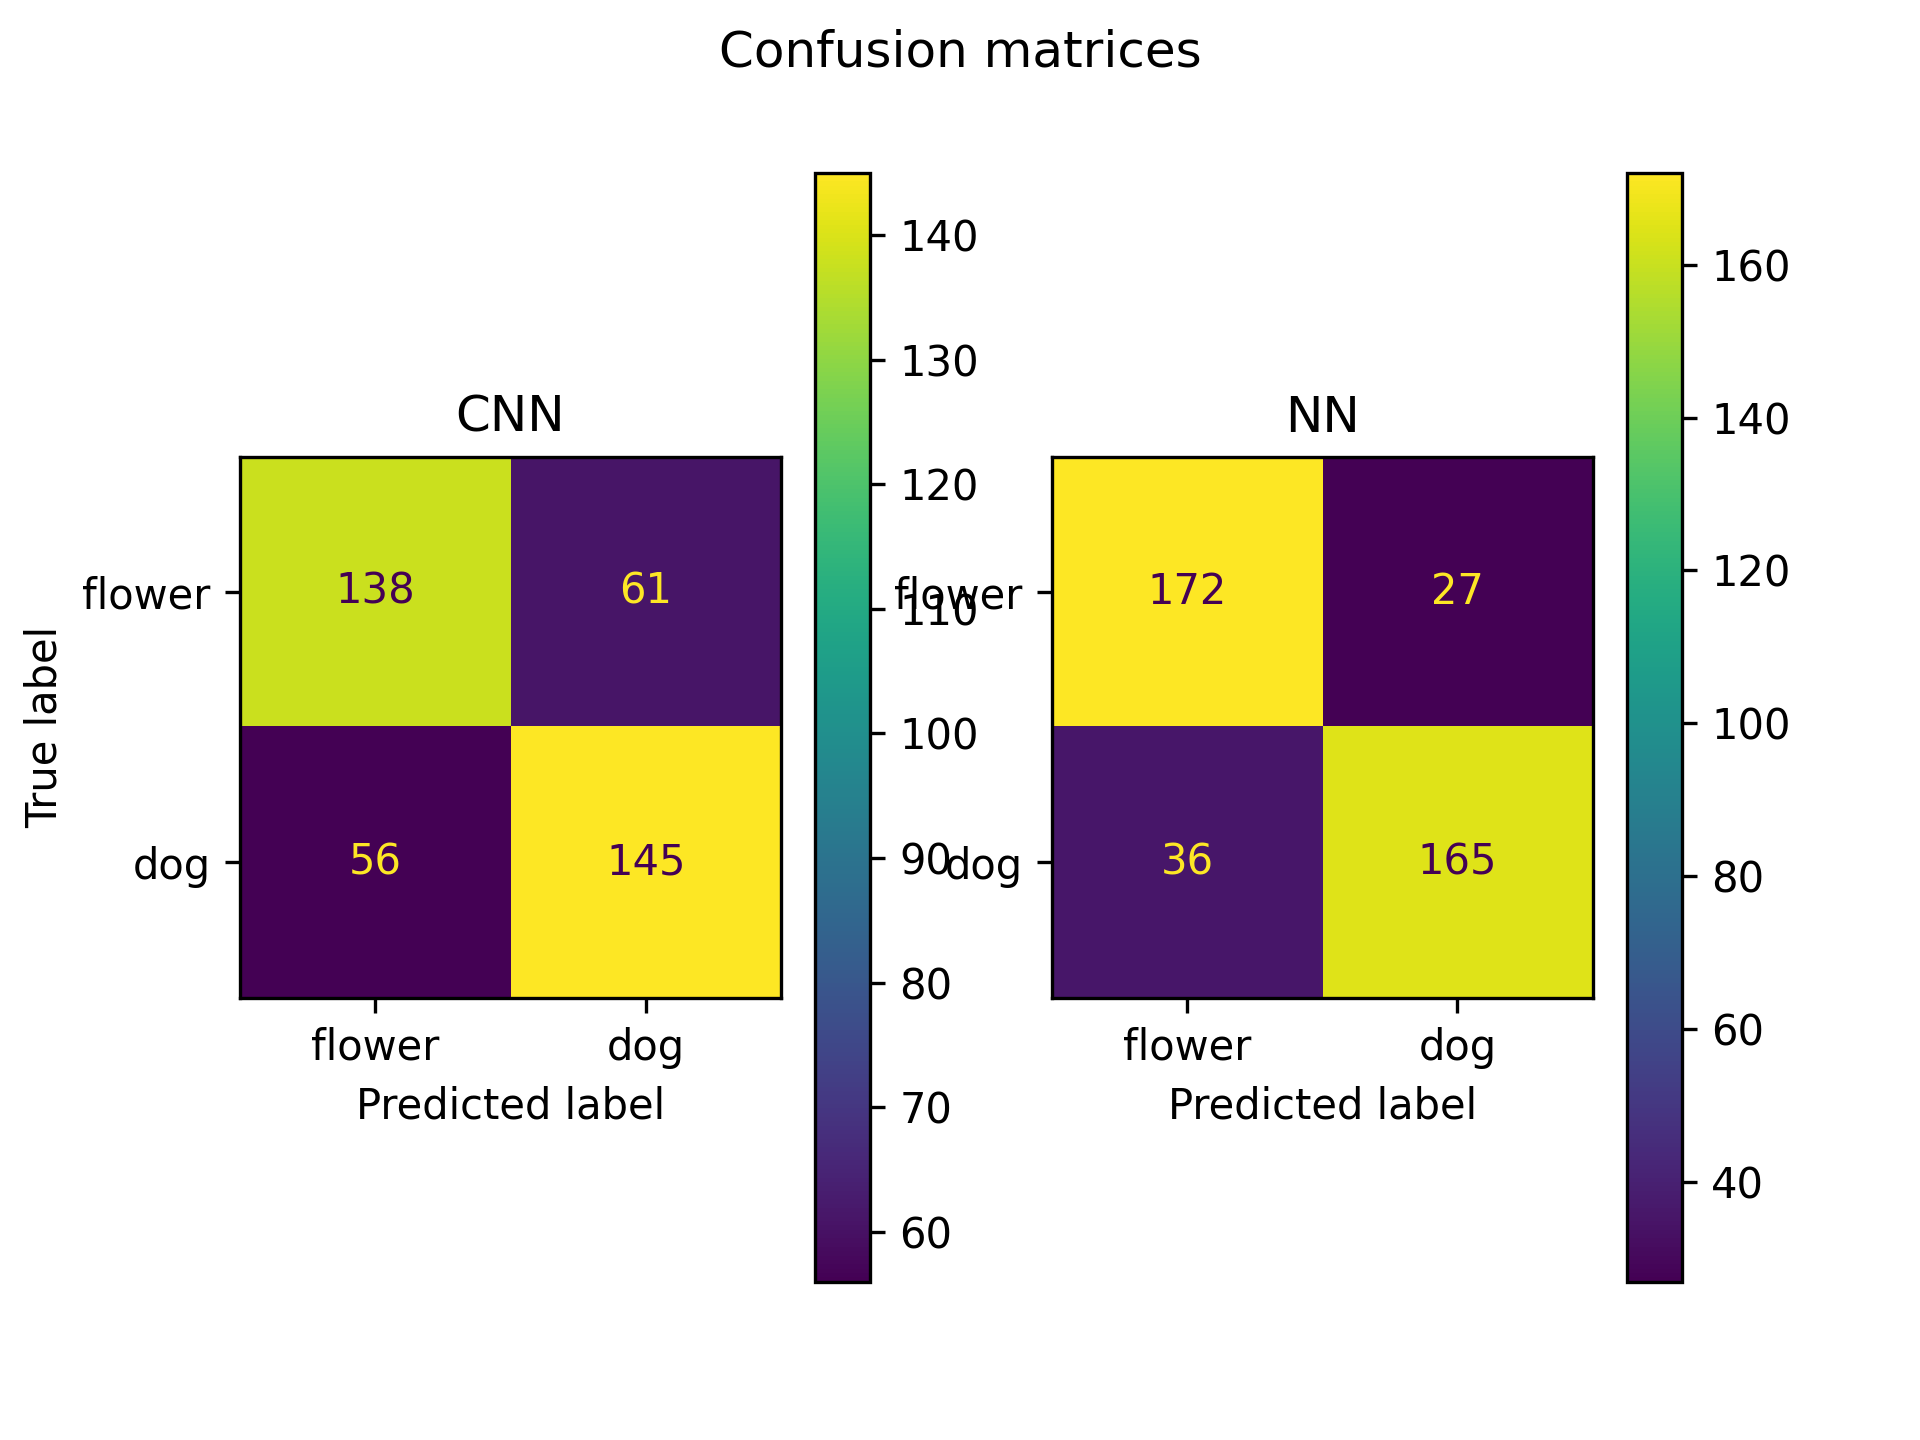
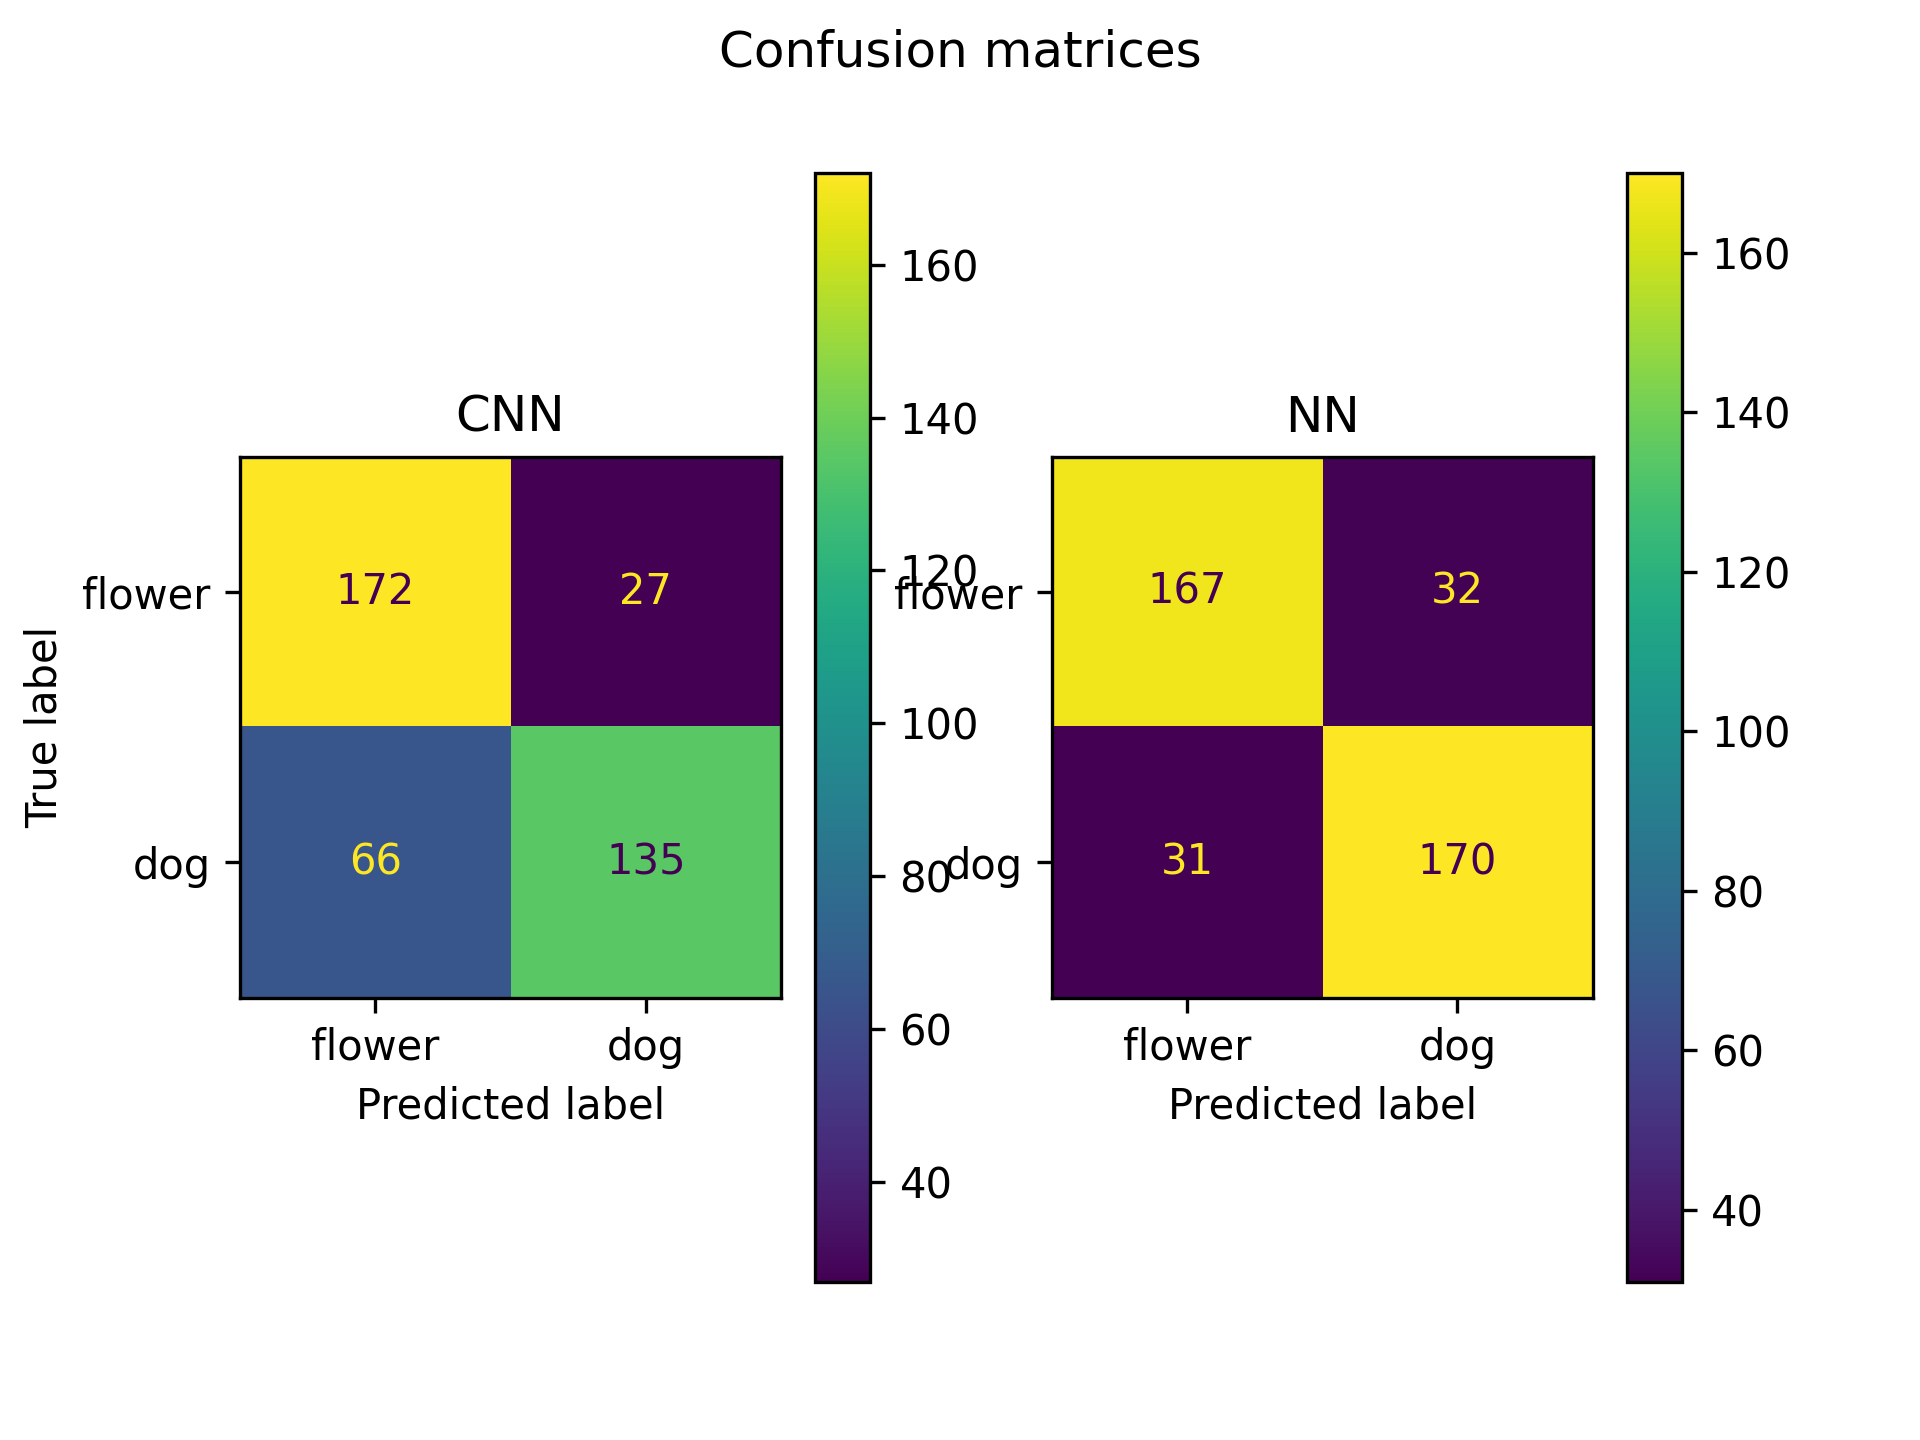
Implemented data augmentation

diff --git a/k_fold_classification.py b/k_fold_classification.py
@@ -14,6 +14,8 @@ import torch
 import numpy as np
 import os
 
+import torchvision.transforms.autoaugment as T
+
 # Set device where to run the model. GPU if available, otherwise cpu (very slow with deep learning models)
 device = torch.device("cuda" if torch.cuda.is_available() else "cpu")
 
@@ -68,24 +70,45 @@ def classify(display = False):
     min_acc = 500
     acc_cnn = []
     acc_nn = []
+
+    policy = T.AutoAugmentPolicy.IMAGENET
+    augmenter = T.AutoAugment(policy)
+    augmentation_amount = 4
     
     for i, (train_index,test_index) in enumerate(kf.split(x_train)):
         print(f"K-fold cycle {i+1}/{folds}")
         x_train_par, x_val, y_train_par, y_val = x_train[train_index], x_train[test_index], y_train[train_index], y_train[test_index]
-        trainset, valset = handler.batcher(data=[x_train_par, x_val, y_train_par, y_val])
+
+        aug_x_train_par = []
+        aug_x_val = []
+        aug_y_train_par = []
+        aug_y_val = []
+
+        for x, y in zip(x_train_par, y_train_par):
+            aug_x_train_par += [np.squeeze(augmenter(torch.unsqueeze(torch.from_numpy(x), dim=0)).numpy())for _ in range(augmentation_amount)]
+            aug_y_train_par += [y] * augmentation_amount
+        
+        for x, y in zip(x_val, y_val):
+            aug_x_val += [np.squeeze(augmenter(torch.unsqueeze(torch.from_numpy(x), dim=0)).numpy()) for _ in range(augmentation_amount)]
+            aug_y_val += [y] * augmentation_amount
+
+        aug_x_train_par = np.asarray(aug_x_train_par)
+        aug_x_val = np.asarray(aug_x_val)
+        aug_y_train_par = np.asarray(aug_y_train_par)
+        aug_y_val = np.asarray(aug_y_val)
+
+        trainset, valset = handler.batcher(data=[aug_x_train_par, aug_x_val, aug_y_train_par, aug_y_val])
 
         # get NN dataset
         x_train_scatter_par, x_scatter_val, _, _ = x_train_scatter[train_index], x_train_scatter[test_index], y_train[train_index], y_train[test_index]
         trainset_scatter, valset_scatter = handler.batcher(data=[x_train_scatter_par, x_scatter_val, y_train_par, y_val])
-
 
         # Model parameters
         classes = settings['lab_classes']
         channels = settings['channels']
 
         # Model creation
-        CNN = CNN_128x128(input_channel=channels, 
-                        num_classes=len(classes))
+        CNN = CNN_128x128(input_channel=channels, num_classes=len(classes))
         NN = NN_128x128(input_channel=channels, num_classes=len(classes), data_size = np.prod(list(trainset_scatter)[0][0][0].shape))
         
         # Optimizer parameters
@@ -94,8 +117,8 @@ def classify(display = False):
 
         # Training parameters
         num_epochs = settings['num_epochs']
-        NN_best_path = settings['model_train_path']+'NN_128x128_best_model_trained.pt'
-        CNN_best_path = settings['model_train_path']+'CNN_128x128_best_model_trained.pt'
+        NN_best_path = settings['model_train_path'] + 'NN_128x128_best_model_trained.pt'
+        CNN_best_path = settings['model_train_path'] + 'CNN_128x128_best_model_trained.pt'
         epoch_val = settings['epoch_val']
 
         # Call the function in temp.py

diff --git a/lib/train_test.py b/lib/train_test.py
@@ -16,7 +16,7 @@ def train(model, train_data, val_data, num_epochs, best_model_path, device, opti
     ### CREATE MODEL ###
 
     # Optimizer
-    optim = torch.optim.SGD(model.parameters(), lr = optimizer_parameters[0], momentum=optimizer_parameters[1], weight_decay=0.1)
+    optim = torch.optim.SGD(model.parameters(), lr = optimizer_parameters[0], momentum=optimizer_parameters[1], weight_decay=0.01)
 
     # Loss function
     criterion = torch.nn.CrossEntropyLoss()

diff --git a/lib/scripts/make_settings.py b/lib/scripts/make_settings.py
@@ -26,11 +26,11 @@ generic = {
 
 model_hyperparameters = {
     # Learning rate to scale how much new weighs are evaluated
-    "learning_rate": 0.0005,
+    "learning_rate": 0.001,
     # Scale for past experience to not be perturbated by new ones
     "momentum" : 0.9,
     # The number of times the model is trained on the entire training dataset.
-    "num_epochs" : 60
+    "num_epochs" : 20
 }
 
 scattering_parameters = {

diff --git a/lib/data_handler.py b/lib/data_handler.py
@@ -68,6 +68,7 @@ class data_handler:
             self.data = numpy.asarray([j for i in new_data.values() for j in i])
             self.labels = [j for i in new_labels.values() for j in i]
 
+
         # Return the data
         return self.data.reshape(-1, 1, *self.data.shape[1:]), self.labels
 
